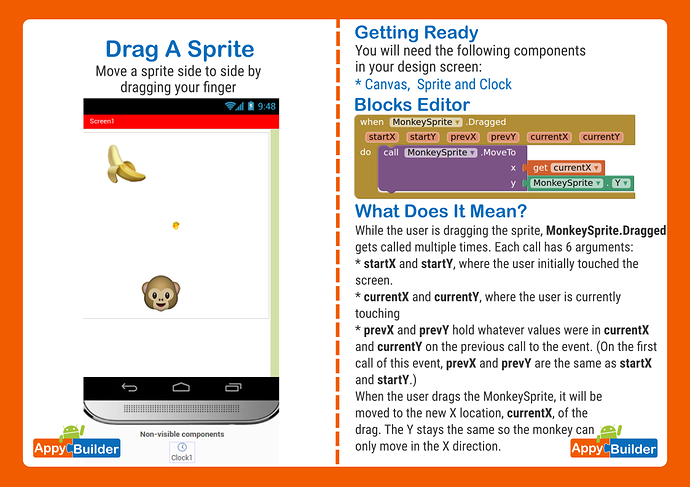
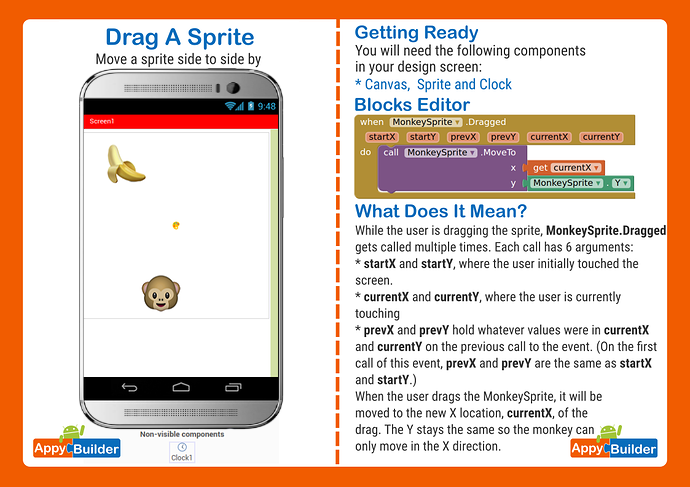
Updates dragging-a-sprite.md
Auto commit by GitBook Editor

Changed region(s): [[0.0913, 0.0616, 0.4261, 0.8932], [0.0913, 0.8008, 0.1217, 0.8316]]

diff --git a/concept-cards.md b/concept-cards.md
@@ -1,6 +1,6 @@
 # Concept Cards
 
-Concept Cards provide a quick way to learn new AppyBuilder code and concepts.
+AppyBuilder Concept Cards provide a quick way to learn new AppyBuilder code and concepts.
 
 Each of the cards can be printed out, folded in half, and used to prompt students to explore a concept in AppyBuilder such as Sprites, timers, sounds, movement, multi screens, making colors, etc.
 
